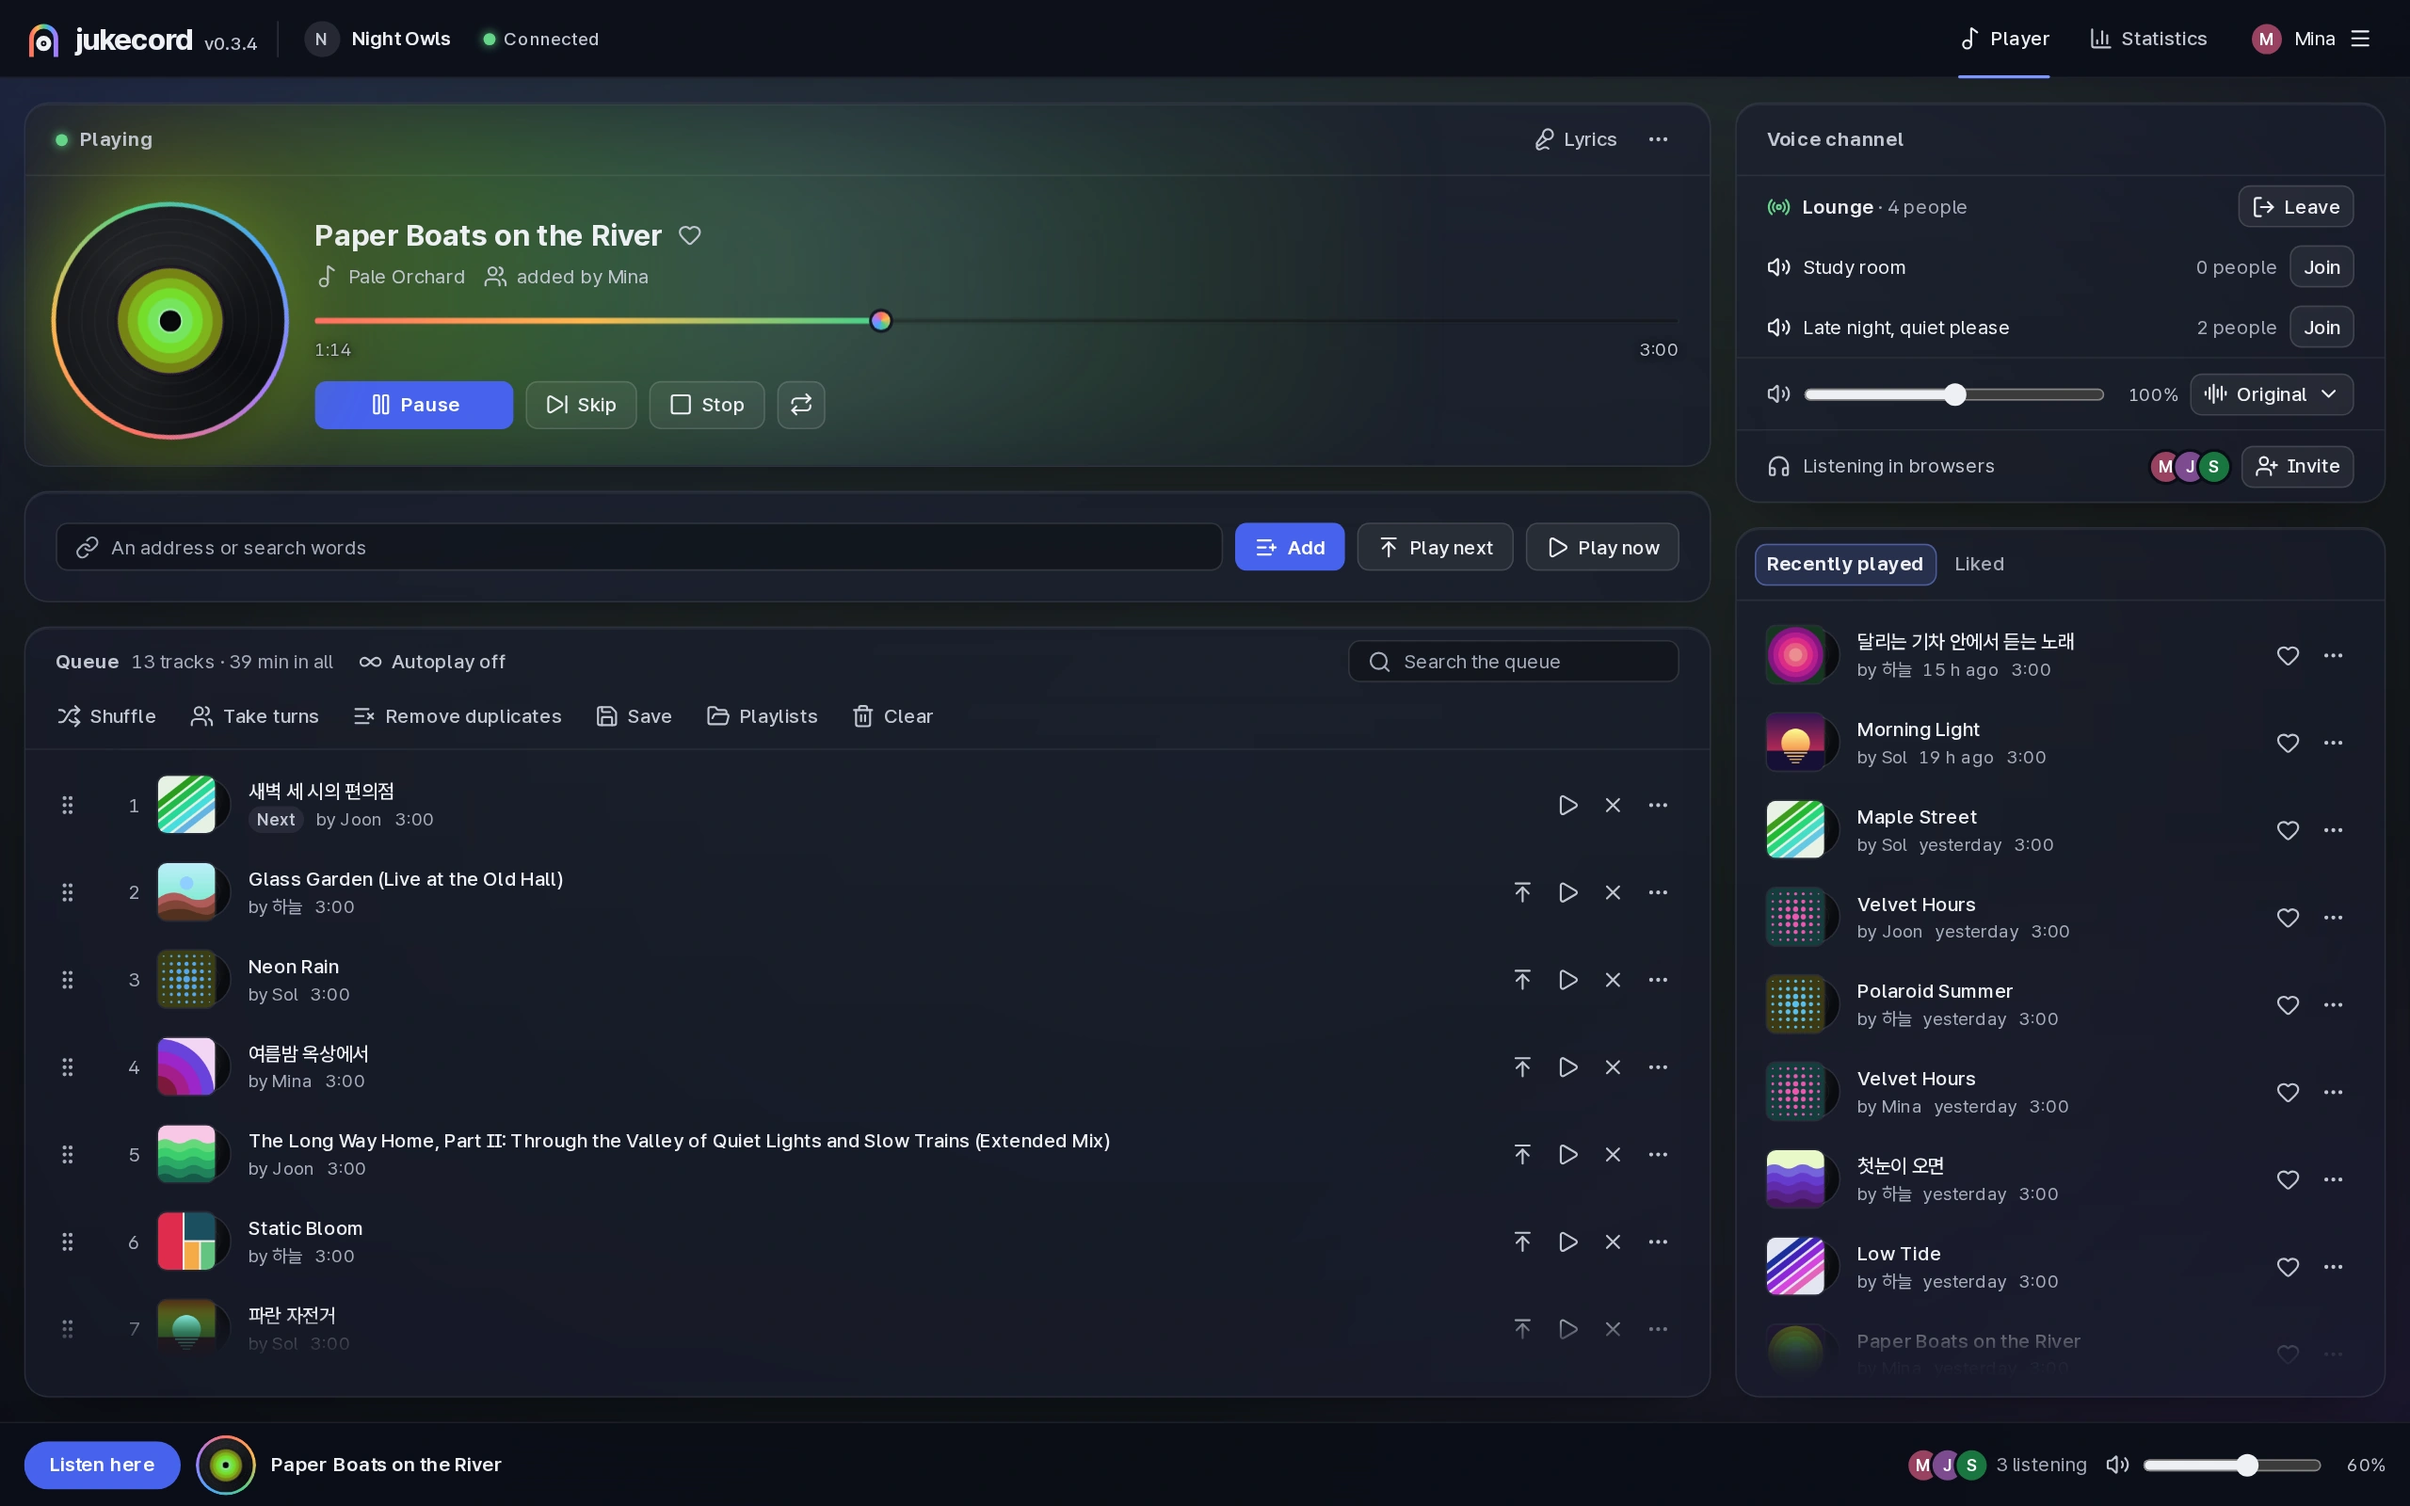
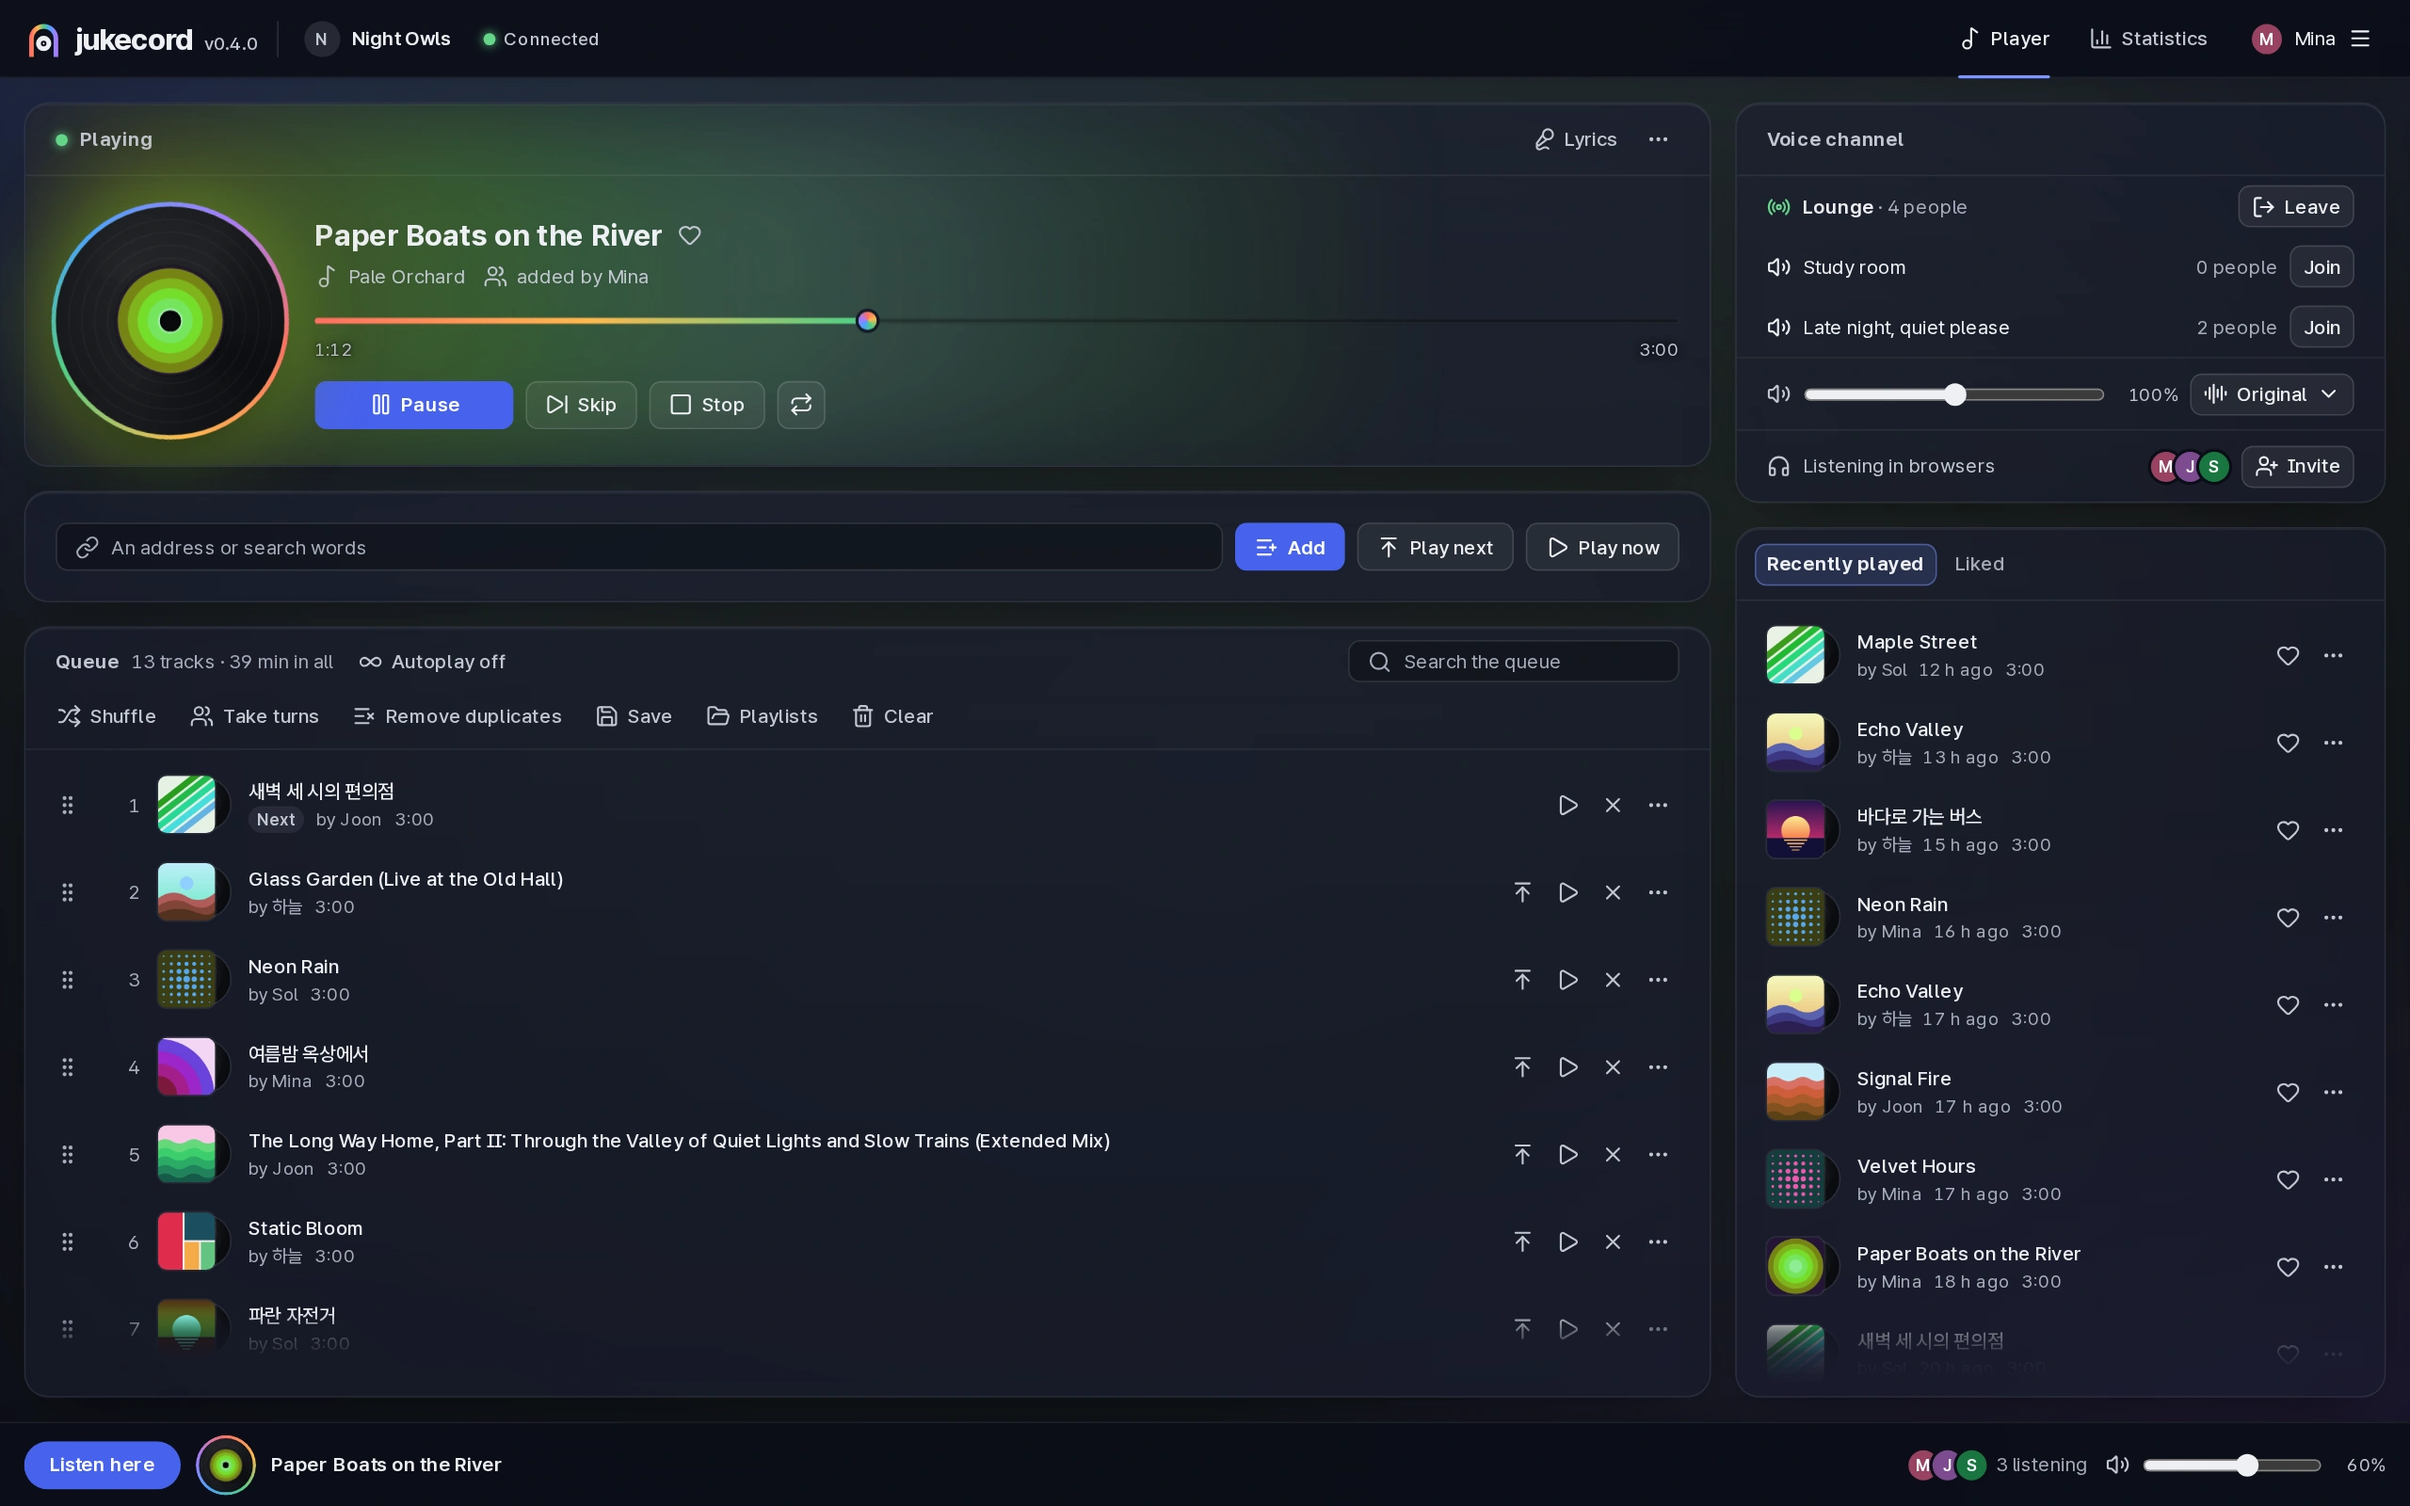
Release 0.4.0

diff --git a/src/version.ts b/src/version.ts
@@ -4,4 +4,4 @@
  * package.json, the Helm chart and the container image carry the same number, and a packaging test fails when one
  * of them drifts from it. Releases follow Semantic Versioning; the tag that publishes one is `v` followed by this value.
  */
-export const VERSION = '0.3.4';
+export const VERSION = '0.4.0';

diff --git a/docs/INSTALL.md b/docs/INSTALL.md
@@ -48,14 +48,14 @@ docker buildx prune --filter description~=jukecord
 To run a released image instead of building one, set it in `.env`:
 
 ```bash
-JUKECORD_IMAGE=ghcr.io/kanggu12/jukecord:0.3.4
+JUKECORD_IMAGE=ghcr.io/kanggu12/jukecord:0.4.0
 ```
 
 This checks that GitHub signed it as built by this repository's release workflow (the chart's `.tgz` from the release
 page is checked the same way):
 
 ```bash
-gh attestation verify oci://ghcr.io/kanggu12/jukecord:0.3.4 --repo kanggu12/jukecord
+gh attestation verify oci://ghcr.io/kanggu12/jukecord:0.4.0 --repo kanggu12/jukecord
 ```
 
 ### A second copy on the same machine
@@ -182,23 +182,23 @@ and yt-dlp, so nothing else is installed. It runs on Linux with glibc 2.28 or ne
 **Linux** (x64; on a Raspberry Pi 4 or 5 and other ARM machines, `x64` becomes `arm64`)
 
 ```bash
-curl -fL https://github.com/kanggu12/jukecord/releases/download/v0.3.4/jukecord-0.3.4-linux-x64.tar.gz | tar -xz
-cd jukecord-0.3.4-linux-x64 && ./jukecord start
+curl -fL https://github.com/kanggu12/jukecord/releases/download/v0.4.0/jukecord-0.4.0-linux-x64.tar.gz | tar -xz
+cd jukecord-0.4.0-linux-x64 && ./jukecord start
 ```
 
 **macOS** (Apple silicon; on Intel, `arm64` becomes `x64`)
 
 ```bash
-curl -fL https://github.com/kanggu12/jukecord/releases/download/v0.3.4/jukecord-0.3.4-macos-arm64.tar.gz | tar -xz
-cd jukecord-0.3.4-macos-arm64 && ./jukecord start
+curl -fL https://github.com/kanggu12/jukecord/releases/download/v0.4.0/jukecord-0.4.0-macos-arm64.tar.gz | tar -xz
+cd jukecord-0.4.0-macos-arm64 && ./jukecord start
 ```
 
 **Windows** (PowerShell; on Arm, `x64` becomes `arm64`)
 
 ```powershell
-iwr https://github.com/kanggu12/jukecord/releases/download/v0.3.4/jukecord-0.3.4-windows-x64.zip -OutFile jukecord-0.3.4-windows-x64.zip -UseBasicParsing
-tar -xf jukecord-0.3.4-windows-x64.zip
-cd jukecord-0.3.4-windows-x64; .\jukecord start
+iwr https://github.com/kanggu12/jukecord/releases/download/v0.4.0/jukecord-0.4.0-windows-x64.zip -OutFile jukecord-0.4.0-windows-x64.zip -UseBasicParsing
+tar -xf jukecord-0.4.0-windows-x64.zip
+cd jukecord-0.4.0-windows-x64; .\jukecord start
 ```
 
 `jukecord start` runs jukecord in that terminal until Ctrl+C. In a second terminal in the same folder, `./jukecord open`
@@ -217,7 +217,7 @@ cd jukecord-0.3.4-windows-x64; .\jukecord start
 - **Updating**: unpack the newer release beside the folder and copy `.env` into it. It finds the same data, and the
   database moves to the newer schema on the first start, as with Compose.
 - **Downloaded with a browser**, macOS keeps the programs in the folder from starting until they are let through:
-  `xattr -dr com.apple.quarantine jukecord-0.3.4-macos-arm64`. curl, as above, leaves no such mark.
+  `xattr -dr com.apple.quarantine jukecord-0.4.0-macos-arm64`. curl, as above, leaves no such mark.
 
 On macOS and Windows it runs while its terminal is open; for a machine that plays around the clock, Docker Compose
 (Docker Desktop starts with the machine) or Linux suits better.
@@ -228,7 +228,7 @@ A systemd user service keeps it running and starts it at boot. It names one path
 use (after an update, point the link at the new folder and restart the service):
 
 ```bash
-ln -sfn "$PWD/jukecord-0.3.4-linux-x64" ~/jukecord
+ln -sfn "$PWD/jukecord-0.4.0-linux-x64" ~/jukecord
 mkdir -p ~/.config/systemd/user && cat > ~/.config/systemd/user/jukecord.service <<'EOF'
 [Unit]
 Description=jukecord
@@ -251,25 +251,25 @@ server was.
 
 | File                                                                   | What it is                                                                                         |
 | :--------------------------------------------------------------------- | :------------------------------------------------------------------------------------------------- |
-| `jukecord-0.3.4-linux-x64.tar.gz`, `jukecord-0.3.4-linux-arm64.tar.gz` | jukecord for Linux on x64, and on arm64 (a Raspberry Pi 4 or 5, an ARM server)                     |
-| `jukecord-0.3.4-macos-arm64.tar.gz`, `jukecord-0.3.4-macos-x64.tar.gz` | jukecord for macOS on Apple silicon, and on Intel                                                  |
-| `jukecord-0.3.4-windows-x64.zip`, `jukecord-0.3.4-windows-arm64.zip`   | jukecord for Windows on x64, and on Arm                                                            |
-| `jukecord-0.3.4-helm-chart.tgz`                                        | the Helm chart, the same as `oci://ghcr.io/kanggu12/charts/jukecord` ([Kubernetes](KUBERNETES.md)) |
-| `jukecord-0.3.4-checksums.txt`                                         | the SHA-256 of every file above                                                                    |
+| `jukecord-0.4.0-linux-x64.tar.gz`, `jukecord-0.4.0-linux-arm64.tar.gz` | jukecord for Linux on x64, and on arm64 (a Raspberry Pi 4 or 5, an ARM server)                     |
+| `jukecord-0.4.0-macos-arm64.tar.gz`, `jukecord-0.4.0-macos-x64.tar.gz` | jukecord for macOS on Apple silicon, and on Intel                                                  |
+| `jukecord-0.4.0-windows-x64.zip`, `jukecord-0.4.0-windows-arm64.zip`   | jukecord for Windows on x64, and on Arm                                                            |
+| `jukecord-0.4.0-helm-chart.tgz`                                        | the Helm chart, the same as `oci://ghcr.io/kanggu12/charts/jukecord` ([Kubernetes](KUBERNETES.md)) |
+| `jukecord-0.4.0-checksums.txt`                                         | the SHA-256 of every file above                                                                    |
 
-The image is not a file of the release but `ghcr.io/kanggu12/jukecord:0.3.4` ([a released image](#a-released-image)).
+The image is not a file of the release but `ghcr.io/kanggu12/jukecord:0.4.0` ([a released image](#a-released-image)).
 
 ### Checking a download
 
 The checksums file has a SHA-256 for each file, and GitHub keeps a signed record of where each was built:
 
 ```bash
-sha256sum -c --ignore-missing jukecord-0.3.4-checksums.txt
-gh attestation verify jukecord-0.3.4-linux-x64.tar.gz --repo kanggu12/jukecord
+sha256sum -c --ignore-missing jukecord-0.4.0-checksums.txt
+gh attestation verify jukecord-0.4.0-linux-x64.tar.gz --repo kanggu12/jukecord
 ```
 
 On macOS `shasum -a 256 -c --ignore-missing` checks the same; on Windows, compare
-`Get-FileHash jukecord-0.3.4-windows-x64.zip` with its line. Each program is unpacked and run on its own system and
+`Get-FileHash jukecord-0.4.0-windows-x64.zip` with its line. Each program is unpacked and run on its own system and
 processor (a track played through yt-dlp and FFmpeg) before a release is published, and again from the published
 release's addresses after.
 

diff --git a/docs/OFFLINE.md b/docs/OFFLINE.md
@@ -21,11 +21,11 @@ yt-dlp. Download it on a machine with access, check it against the release's che
 
 ```bash
 # on a machine with access
-curl -fLO https://github.com/kanggu12/jukecord/releases/download/v0.3.4/jukecord-0.3.4-linux-arm64.tar.gz
-curl -fLO https://github.com/kanggu12/jukecord/releases/download/v0.3.4/jukecord-0.3.4-checksums.txt
-sha256sum -c --ignore-missing jukecord-0.3.4-checksums.txt
+curl -fLO https://github.com/kanggu12/jukecord/releases/download/v0.4.0/jukecord-0.4.0-linux-arm64.tar.gz
+curl -fLO https://github.com/kanggu12/jukecord/releases/download/v0.4.0/jukecord-0.4.0-checksums.txt
+sha256sum -c --ignore-missing jukecord-0.4.0-checksums.txt
 # on the other machine
-tar -xzf jukecord-0.3.4-linux-arm64.tar.gz && cd jukecord-0.3.4-linux-arm64 && ./jukecord start
+tar -xzf jukecord-0.4.0-linux-arm64.tar.gz && cd jukecord-0.4.0-linux-arm64 && ./jukecord start
 ```
 
 ## Building the image without the internet
@@ -43,8 +43,8 @@ gunzip -c jukecord.tar.gz | docker load
 
 `compose.yaml` uses `jukecord:local` by default, so `./jukecord up` runs the loaded image without building.
 
-A released image works the same way: `docker pull ghcr.io/kanggu12/jukecord:0.3.4` where there is access, save and
-load it as above, and set `JUKECORD_IMAGE=ghcr.io/kanggu12/jukecord:0.3.4` in `.env`. The image is built for amd64 and
+A released image works the same way: `docker pull ghcr.io/kanggu12/jukecord:0.4.0` where there is access, save and
+load it as above, and set `JUKECORD_IMAGE=ghcr.io/kanggu12/jukecord:0.4.0` in `.env`. The image is built for amd64 and
 arm64; for a machine of the other kind, pull it with `--platform linux/arm64` (or `linux/amd64`).
 
 ## On Kubernetes without the internet
@@ -53,14 +53,14 @@ Fetch the chart and the image where there is access, and put the image in a regi
 
 ```bash
 # on a machine with access
-helm pull oci://ghcr.io/kanggu12/charts/jukecord --version 0.3.4
-docker pull ghcr.io/kanggu12/jukecord:0.3.4
-docker save ghcr.io/kanggu12/jukecord:0.3.4 | gzip > jukecord-image.tar.gz
+helm pull oci://ghcr.io/kanggu12/charts/jukecord --version 0.4.0
+docker pull ghcr.io/kanggu12/jukecord:0.4.0
+docker save ghcr.io/kanggu12/jukecord:0.4.0 | gzip > jukecord-image.tar.gz
 # inside, where the cluster's registry is
 gunzip -c jukecord-image.tar.gz | docker load
-docker tag ghcr.io/kanggu12/jukecord:0.3.4 registry.example.internal/jukecord:0.3.4
-docker push registry.example.internal/jukecord:0.3.4
-helm install jukecord ./jukecord-0.3.4.tgz -n jukecord --create-namespace \
+docker tag ghcr.io/kanggu12/jukecord:0.4.0 registry.example.internal/jukecord:0.4.0
+docker push registry.example.internal/jukecord:0.4.0
+helm install jukecord ./jukecord-0.4.0.tgz -n jukecord --create-namespace \
   --set image.repository=registry.example.internal/jukecord
 ```
 

diff --git a/CHANGELOG.md b/CHANGELOG.md
@@ -6,6 +6,8 @@ All notable changes to jukecord are documented here. The format is based on
 
 ## [Unreleased]
 
+## [0.4.0] - 2026-11-26
+
 jukecord on a database server, split into services, watched from outside, logged in to with your own accounts and set
 up from the panel: PostgreSQL and MySQL/MariaDB beside SQLite, a core and its edges over Redis or Valkey, Prometheus
 metrics with readiness by parts, logins through OpenID Connect (Keycloak and others) and LDAP or Active Directory, and
@@ -749,7 +751,8 @@ Hardened before the release, after a review of the web side, the fetching and th
 - Everything jukecord writes is readable by its own user only, and a database copied in with a looser mode is made so
   again when it is opened.
 
-[Unreleased]: https://github.com/kanggu12/jukecord/compare/v0.3.4...HEAD
+[Unreleased]: https://github.com/kanggu12/jukecord/compare/v0.4.0...HEAD
+[0.4.0]: https://github.com/kanggu12/jukecord/compare/v0.3.4...v0.4.0
 [0.3.4]: https://github.com/kanggu12/jukecord/compare/v0.3.3...v0.3.4
 [0.3.3]: https://github.com/kanggu12/jukecord/compare/v0.3.2...v0.3.3
 [0.3.2]: https://github.com/kanggu12/jukecord/compare/v0.3.1...v0.3.2

diff --git a/README.md b/README.md
@@ -12,7 +12,7 @@
 
 <p align="center">
   <a href="https://github.com/kanggu12/jukecord/actions/workflows/ci.yml"><img alt="CI" src="https://github.com/kanggu12/jukecord/actions/workflows/ci.yml/badge.svg"></a>
-  <a href="https://github.com/kanggu12/jukecord/releases"><img alt="Release v0.3.4" src="docs/assets/badges/release.svg"></a>
+  <a href="https://github.com/kanggu12/jukecord/releases"><img alt="Release v0.4.0" src="docs/assets/badges/release.svg"></a>
   <a href="LICENSE"><img alt="License: MIT" src="docs/assets/badges/license.svg"></a>
   <img alt="Runs on amd64 and arm64" src="docs/assets/badges/platforms.svg">
 </p>
